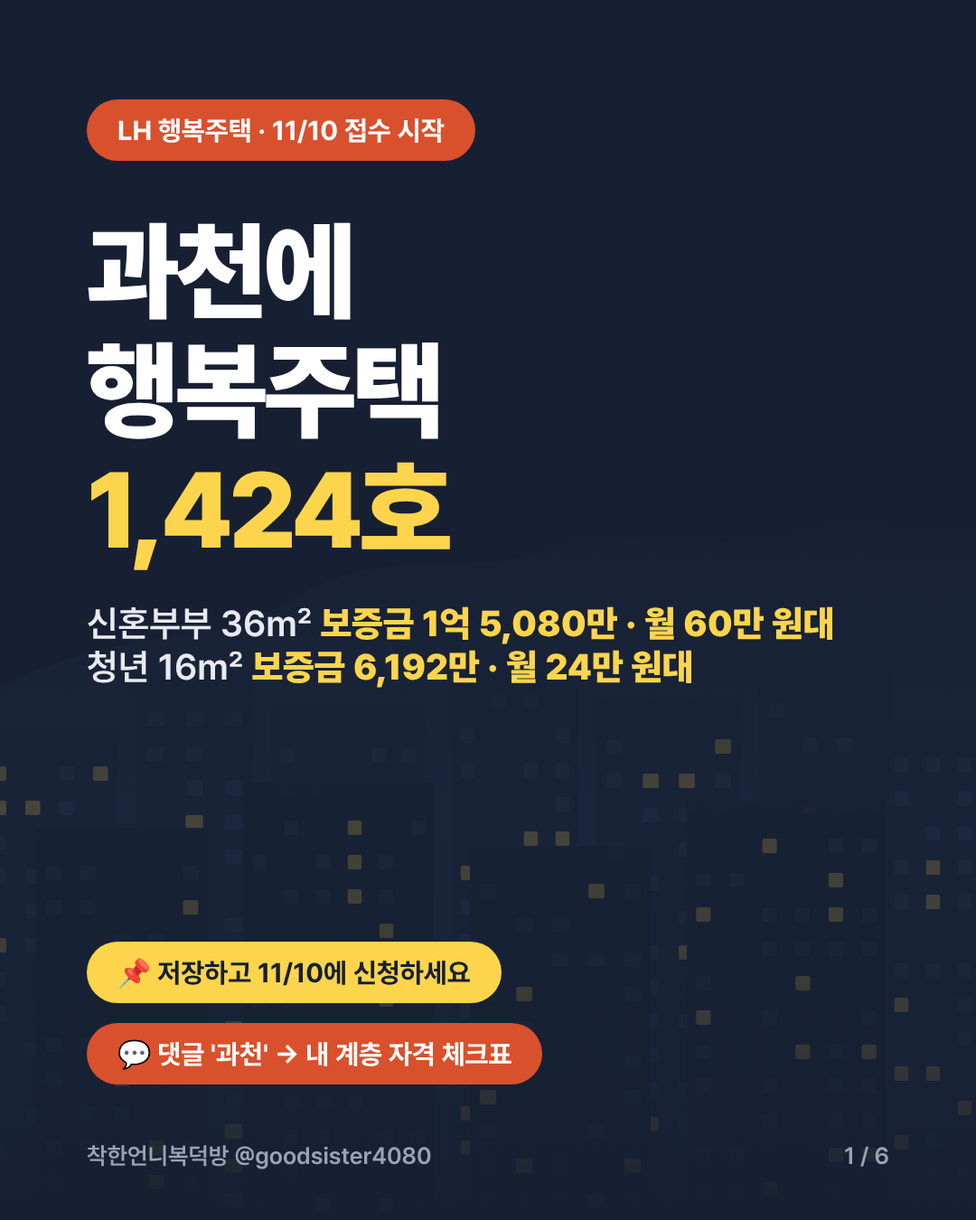
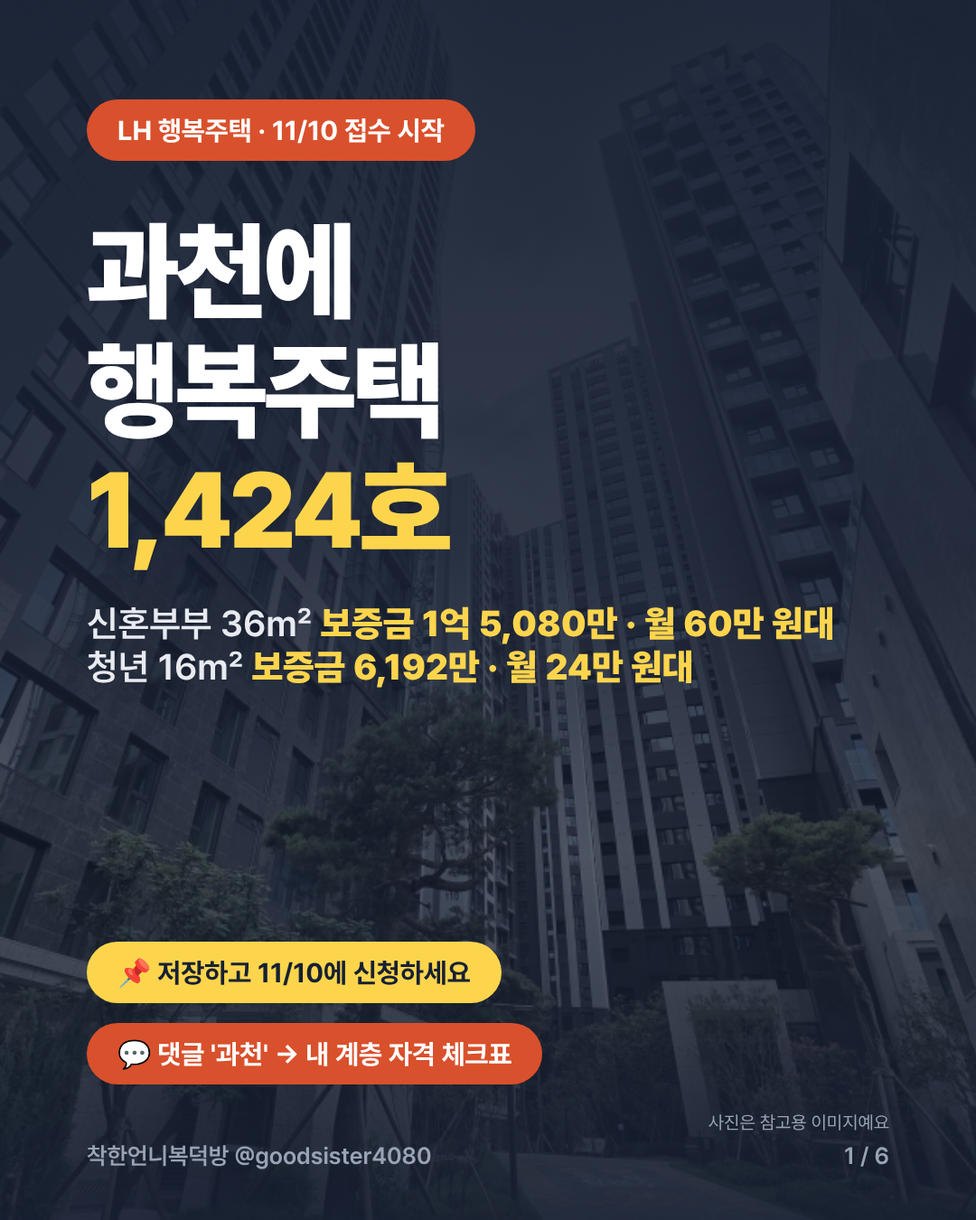
과천 카드 표지 배경을 대표님 현장 사진으로 교체
Claude-Session: https://claude.ai/code/session_01TVq9Lz26QJWFKfuMp4TYmW

diff --git a/instagram/cards/2026-11-gwacheon/cards.html b/instagram/cards/2026-11-gwacheon/cards.html
@@ -46,10 +46,10 @@ tr.hl td{background:#172033;color:#fff}tr.hl td small{color:#AEB6C8}tr.hl td .r{
 .ck i{font-style:normal;width:56px;height:56px;border-radius:50%;background:#D9502C;color:#fff;font-weight:800;font-size:30px;display:flex;align-items:center;justify-content:center}
 .ck b{font-size:34px;font-weight:800;display:block}
 .ck span{font-size:27px;color:#5D5040;line-height:1.45;display:block;margin-top:6px}
-.bgsk{position:absolute;inset:0;z-index:0}.c.dark>.pill,.c.dark>.big,.c.dark>.sub,.c.dark>.ey,.c.dark>h1,.c.dark>.tl{position:relative;z-index:1}.c.dark>.ctas,.c.dark>.foot{z-index:1}.bgsk{opacity:.55}.fade{position:absolute;inset:0;z-index:0;background:linear-gradient(180deg,#172033 0%,#172033 40%,rgba(23,32,51,.35) 66%,rgba(23,32,51,.55) 85%,#172033 100%)}</style></head><body>
+.bgsk{position:absolute;inset:0;z-index:0}.c.dark>.pill,.c.dark>.big,.c.dark>.sub,.c.dark>.ey,.c.dark>h1,.c.dark>.tl{position:relative;z-index:1}.c.dark>.ctas,.c.dark>.foot{z-index:1}.bgsk{opacity:.55}.fade{position:absolute;inset:0;z-index:0;background:linear-gradient(180deg,#172033 0%,#172033 40%,rgba(23,32,51,.35) 66%,rgba(23,32,51,.55) 85%,#172033 100%)}.photo{position:absolute;inset:0;z-index:0;background:url(bg.jpg) 62% center/cover;filter:saturate(.6) brightness(.85)}#c1 .fade{background:linear-gradient(180deg,rgba(23,32,51,.94) 0%,rgba(23,32,51,.86) 45%,rgba(23,32,51,.62) 70%,rgba(23,32,51,.9) 100%)}.ref{position:absolute;right:96px;bottom:96px;z-index:1;font-size:20px;color:#9AA3B5}</style></head><body>
 
 <!-- 1 표지 -->
-<section class="c dark" id="c1"><svg class="bgsk" viewBox="0 0 1080 1350" width="1080" height="1350" xmlns="http://www.w3.org/2000/svg" aria-hidden="true"><path d="M0 760 C140 690 230 720 330 660 C430 600 520 640 600 610 C700 570 790 620 880 590 C960 565 1030 600 1080 585 L1080 1350 L0 1350 Z" fill="#22304A"/><rect x="-20" y="820" width="150" height="530" fill="#1E2A42"/><rect x="-20" y="806" width="150" height="14" fill="#1E2A42" opacity=".9"/><rect x="-9.5" y="848" width="16.5" height="16" rx="2" fill="#FDD54D" opacity="0.55"/><rect x="65.5" y="848" width="16.5" height="16" rx="2" fill="#34435F" opacity="0.5"/><rect x="103.0" y="848" width="16.5" height="16" rx="2" fill="#FDD54D" opacity="0.55"/><rect x="-9.5" y="886" width="16.5" height="16" rx="2" fill="#FDD54D" opacity="0.55"/><rect x="28.0" y="886" width="16.5" height="16" rx="2" fill="#FDD54D" opacity="0.55"/><rect x="65.5" y="886" width="16.5" height="16" rx="2" fill="#34435F" opacity="0.5"/><rect x="-9.5" y="924" width="16.5" height="16" rx="2" fill="#34435F" opacity="0.5"/><rect x="-9.5" y="962" width="16.5" height="16" rx="2" fill="#34435F" opacity="0.5"/><rect x="28.0" y="962" width="16.5" height="16" rx="2" fill="#34435F" opacity="0.5"/><rect x="65.5" y="962" width="16.5" height="16" rx="2" fill="#FDD54D" opacity="0.55"/><rect x="103.0" y="962" width="16.5" height="16" rx="2" fill="#34435F" opacity="0.5"/><rect x="28.0" y="1000" width="16.5" height="16" rx="2" fill="#34435F" opacity="0.5"/><rect x="103.0" y="1000" width="16.5" height="16" rx="2" fill="#34435F" opacity="0.5"/><rect x="-9.5" y="1038" width="16.5" height="16" rx="2" fill="#FDD54D" opacity="0.55"/><rect x="28.0" y="1038" width="16.5" height="16" rx="2" fill="#34435F" opacity="0.5"/><rect x="65.5" y="1038" width="16.5" height="16" rx="2" fill="#34435F" opacity="0.5"/><rect x="-9.5" y="1076" width="16.5" height="16" rx="2" fill="#34435F" opacity="0.5"/><rect x="103.0" y="1076" width="16.5" height="16" rx="2" fill="#34435F" opacity="0.5"/><rect x="-9.5" y="1114" width="16.5" height="16" rx="2" fill="#34435F" opacity="0.5"/><rect x="65.5" y="1114" width="16.5" height="16" rx="2" fill="#34435F" opacity="0.5"/><rect x="103.0" y="1114" width="16.5" height="16" rx="2" fill="#34435F" opacity="0.5"/><rect x="28.0" y="1152" width="16.5" height="16" rx="2" fill="#34435F" opacity="0.5"/><rect x="65.5" y="1152" width="16.5" height="16" rx="2" fill="#34435F" opacity="0.5"/><rect x="65.5" y="1190" width="16.5" height="16" rx="2" fill="#34435F" opacity="0.5"/><rect x="28.0" y="1228" width="16.5" height="16" rx="2" fill="#34435F" opacity="0.5"/><rect x="103.0" y="1228" width="16.5" height="16" rx="2" fill="#34435F" opacity="0.5"/><rect x="-9.5" y="1266" width="16.5" height="16" rx="2" fill="#34435F" opacity="0.5"/><rect x="-9.5" y="1304" width="16.5" height="16" rx="2" fill="#34435F" opacity="0.5"/><rect x="65.5" y="1304" width="16.5" height="16" rx="2" fill="#34435F" opacity="0.5"/><rect x="103.0" y="1304" width="16.5" height="16" rx="2" fill="#FDD54D" opacity="0.55"/><rect x="150" y="760" width="130" height="590" fill="#1E2A42"/><rect x="150" y="746" width="130" height="14" fill="#1E2A42" opacity=".9"/><rect x="162.1" y="788" width="19.1" height="16" rx="2" fill="#34435F" opacity="0.5"/><rect x="205.5" y="788" width="19.1" height="16" rx="2" fill="#34435F" opacity="0.5"/><rect x="248.8" y="788" width="19.1" height="16" rx="2" fill="#34435F" opacity="0.5"/><rect x="162.1" y="826" width="19.1" height="16" rx="2" fill="#34435F" opacity="0.5"/><rect x="205.5" y="826" width="19.1" height="16" rx="2" fill="#34435F" opacity="0.5"/><rect x="205.5" y="864" width="19.1" height="16" rx="2" fill="#34435F" opacity="0.5"/><rect x="248.8" y="864" width="19.1" height="16" rx="2" fill="#34435F" opacity="0.5"/><rect x="205.5" y="902" width="19.1" height="16" rx="2" fill="#FDD54D" opacity="0.55"/><rect x="248.8" y="902" width="19.1" height="16" rx="2" fill="#34435F" opacity="0.5"/><rect x="162.1" y="940" width="19.1" height="16" rx="2" fill="#34435F" opacity="0.5"/><rect x="205.5" y="940" width="19.1" height="16" rx="2" fill="#FDD54D" opacity="0.55"/><rect x="248.8" y="940" width="19.1" height="16" rx="2" fill="#34435F" opacity="0.5"/><rect x="162.1" y="1016" width="19.1" height="16" rx="2" fill="#34435F" opacity="0.5"/><rect x="248.8" y="1016" width="19.1" height="16" rx="2" fill="#34435F" opacity="0.5"/><rect x="162.1" y="1092" width="19.1" height="16" rx="2" fill="#34435F" opacity="0.5"/><rect x="205.5" y="1092" width="19.1" height="16" rx="2" fill="#34435F" opacity="0.5"/><rect x="248.8" y="1092" width="19.1" height="16" rx="2" fill="#FDD54D" opacity="0.55"/><rect x="162.1" y="1130" width="19.1" height="16" rx="2" fill="#FDD54D" opacity="0.55"/><rect x="205.5" y="1130" width="19.1" height="16" rx="2" fill="#FDD54D" opacity="0.55"/><rect x="248.8" y="1130" width="19.1" height="16" rx="2" fill="#FDD54D" opacity="0.55"/><rect x="162.1" y="1168" width="19.1" height="16" rx="2" fill="#34435F" opacity="0.5"/><rect x="205.5" y="1168" width="19.1" height="16" rx="2" fill="#34435F" opacity="0.5"/><rect x="162.1" y="1206" width="19.1" height="16" rx="2" fill="#34435F" opacity="0.5"/><rect x="205.5" y="1206" width="19.1" height="16" rx="2" fill="#34435F" opacity="0.5"/><rect x="248.8" y="1206" width="19.1" height="16" rx="2" fill="#34435F" opacity="0.5"/><rect x="205.5" y="1244" width="19.1" height="16" rx="2" fill="#34435F" opacity="0.5"/><rect x="248.8" y="1244" width="19.1" height="16" rx="2" fill="#FDD54D" opacity="0.55"/><rect x="162.1" y="1282" width="19.1" height="16" rx="2" fill="#34435F" opacity="0.5"/><rect x="248.8" y="1282" width="19.1" height="16" rx="2" fill="#FDD54D" opacity="0.55"/><rect x="205.5" y="1320" width="19.1" height="16" rx="2" fill="#FDD54D" opacity="0.55"/><rect x="248.8" y="1320" width="19.1" height="16" rx="2" fill="#FDD54D" opacity="0.55"/><rect x="300" y="800" width="170" height="550" fill="#1E2A42"/><rect x="300" y="786" width="170" height="14" fill="#1E2A42" opacity=".9"/><rect x="309.5" y="828" width="15.0" height="16" rx="2" fill="#34435F" opacity="0.5"/><rect x="411.5" y="828" width="15.0" height="16" rx="2" fill="#34435F" opacity="0.5"/><rect x="445.5" y="828" width="15.0" height="16" rx="2" fill="#34435F" opacity="0.5"/><rect x="309.5" y="866" width="15.0" height="16" rx="2" fill="#34435F" opacity="0.5"/><rect x="343.5" y="866" width="15.0" height="16" rx="2" fill="#34435F" opacity="0.5"/><rect x="411.5" y="904" width="15.0" height="16" rx="2" fill="#34435F" opacity="0.5"/><rect x="445.5" y="904" width="15.0" height="16" rx="2" fill="#FDD54D" opacity="0.55"/><rect x="309.5" y="942" width="15.0" height="16" rx="2" fill="#34435F" opacity="0.5"/><rect x="343.5" y="942" width="15.0" height="16" rx="2" fill="#34435F" opacity="0.5"/><rect x="411.5" y="942" width="15.0" height="16" rx="2" fill="#34435F" opacity="0.5"/><rect x="343.5" y="980" width="15.0" height="16" rx="2" fill="#34435F" opacity="0.5"/><rect x="377.5" y="980" width="15.0" height="16" rx="2" fill="#FDD54D" opacity="0.55"/><rect x="411.5" y="980" width="15.0" height="16" rx="2" fill="#34435F" opacity="0.5"/><rect x="343.5" y="1018" width="15.0" height="16" rx="2" fill="#34435F" opacity="0.5"/><rect x="411.5" y="1018" width="15.0" height="16" rx="2" fill="#34435F" opacity="0.5"/><rect x="377.5" y="1056" width="15.0" height="16" rx="2" fill="#FDD54D" opacity="0.55"/><rect x="445.5" y="1056" width="15.0" height="16" rx="2" fill="#34435F" opacity="0.5"/><rect x="343.5" y="1094" width="15.0" height="16" rx="2" fill="#34435F" opacity="0.5"/><rect x="445.5" y="1094" width="15.0" height="16" rx="2" fill="#FDD54D" opacity="0.55"/><rect x="309.5" y="1132" width="15.0" height="16" rx="2" fill="#34435F" opacity="0.5"/><rect x="377.5" y="1132" width="15.0" height="16" rx="2" fill="#34435F" opacity="0.5"/><rect x="309.5" y="1170" width="15.0" height="16" rx="2" fill="#34435F" opacity="0.5"/><rect x="343.5" y="1170" width="15.0" height="16" rx="2" fill="#FDD54D" opacity="0.55"/><rect x="445.5" y="1170" width="15.0" height="16" rx="2" fill="#34435F" opacity="0.5"/><rect x="309.5" y="1208" width="15.0" height="16" rx="2" fill="#34435F" opacity="0.5"/><rect x="377.5" y="1208" width="15.0" height="16" rx="2" fill="#34435F" opacity="0.5"/><rect x="411.5" y="1208" width="15.0" height="16" rx="2" fill="#34435F" opacity="0.5"/><rect x="309.5" y="1246" width="15.0" height="16" rx="2" fill="#34435F" opacity="0.5"/><rect x="343.5" y="1246" width="15.0" height="16" rx="2" fill="#34435F" opacity="0.5"/><rect x="377.5" y="1246" width="15.0" height="16" rx="2" fill="#34435F" opacity="0.5"/><rect x="309.5" y="1284" width="15.0" height="16" rx="2" fill="#34435F" opacity="0.5"/><rect x="343.5" y="1284" width="15.0" height="16" rx="2" fill="#34435F" opacity="0.5"/><rect x="377.5" y="1284" width="15.0" height="16" rx="2" fill="#FDD54D" opacity="0.55"/><rect x="411.5" y="1284" width="15.0" height="16" rx="2" fill="#FDD54D" opacity="0.55"/><rect x="445.5" y="1284" width="15.0" height="16" rx="2" fill="#34435F" opacity="0.5"/><rect x="309.5" y="1322" width="15.0" height="16" rx="2" fill="#34435F" opacity="0.5"/><rect x="411.5" y="1322" width="15.0" height="16" rx="2" fill="#34435F" opacity="0.5"/><rect x="500" y="740" width="140" height="610" fill="#1E2A42"/><rect x="500" y="726" width="140" height="14" fill="#1E2A42" opacity=".9"/><rect x="544.8" y="768" width="15.4" height="16" rx="2" fill="#34435F" opacity="0.5"/><rect x="579.8" y="768" width="15.4" height="16" rx="2" fill="#34435F" opacity="0.5"/><rect x="509.8" y="806" width="15.4" height="16" rx="2" fill="#34435F" opacity="0.5"/><rect x="614.8" y="806" width="15.4" height="16" rx="2" fill="#34435F" opacity="0.5"/><rect x="509.8" y="844" width="15.4" height="16" rx="2" fill="#34435F" opacity="0.5"/><rect x="579.8" y="844" width="15.4" height="16" rx="2" fill="#34435F" opacity="0.5"/><rect x="614.8" y="844" width="15.4" height="16" rx="2" fill="#34435F" opacity="0.5"/><rect x="614.8" y="882" width="15.4" height="16" rx="2" fill="#34435F" opacity="0.5"/><rect x="579.8" y="920" width="15.4" height="16" rx="2" fill="#FDD54D" opacity="0.55"/><rect x="614.8" y="920" width="15.4" height="16" rx="2" fill="#FDD54D" opacity="0.55"/><rect x="509.8" y="958" width="15.4" height="16" rx="2" fill="#FDD54D" opacity="0.55"/><rect x="509.8" y="996" width="15.4" height="16" rx="2" fill="#34435F" opacity="0.5"/><rect x="579.8" y="996" width="15.4" height="16" rx="2" fill="#34435F" opacity="0.5"/><rect x="509.8" y="1034" width="15.4" height="16" rx="2" fill="#34435F" opacity="0.5"/><rect x="544.8" y="1034" width="15.4" height="16" rx="2" fill="#34435F" opacity="0.5"/><rect x="509.8" y="1072" width="15.4" height="16" rx="2" fill="#34435F" opacity="0.5"/><rect x="544.8" y="1072" width="15.4" height="16" rx="2" fill="#34435F" opacity="0.5"/><rect x="579.8" y="1072" width="15.4" height="16" rx="2" fill="#34435F" opacity="0.5"/><rect x="509.8" y="1110" width="15.4" height="16" rx="2" fill="#34435F" opacity="0.5"/><rect x="544.8" y="1110" width="15.4" height="16" rx="2" fill="#FDD54D" opacity="0.55"/><rect x="579.8" y="1110" width="15.4" height="16" rx="2" fill="#34435F" opacity="0.5"/><rect x="614.8" y="1110" width="15.4" height="16" rx="2" fill="#FDD54D" opacity="0.55"/><rect x="614.8" y="1148" width="15.4" height="16" rx="2" fill="#34435F" opacity="0.5"/><rect x="509.8" y="1186" width="15.4" height="16" rx="2" fill="#34435F" opacity="0.5"/><rect x="544.8" y="1186" width="15.4" height="16" rx="2" fill="#FDD54D" opacity="0.55"/><rect x="579.8" y="1186" width="15.4" height="16" rx="2" fill="#34435F" opacity="0.5"/><rect x="509.8" y="1224" width="15.4" height="16" rx="2" fill="#FDD54D" opacity="0.55"/><rect x="509.8" y="1262" width="15.4" height="16" rx="2" fill="#FDD54D" opacity="0.55"/><rect x="579.8" y="1262" width="15.4" height="16" rx="2" fill="#FDD54D" opacity="0.55"/><rect x="579.8" y="1300" width="15.4" height="16" rx="2" fill="#34435F" opacity="0.5"/><rect x="614.8" y="1300" width="15.4" height="16" rx="2" fill="#34435F" opacity="0.5"/><rect x="660" y="790" width="160" height="560" fill="#1E2A42"/><rect x="660" y="776" width="160" height="14" fill="#1E2A42" opacity=".9"/><rect x="671.2" y="818" width="17.6" height="16" rx="2" fill="#34435F" opacity="0.5"/><rect x="791.2" y="818" width="17.6" height="16" rx="2" fill="#FDD54D" opacity="0.55"/><rect x="671.2" y="856" width="17.6" height="16" rx="2" fill="#34435F" opacity="0.5"/><rect x="711.2" y="856" width="17.6" height="16" rx="2" fill="#FDD54D" opacity="0.55"/><rect x="751.2" y="856" width="17.6" height="16" rx="2" fill="#FDD54D" opacity="0.55"/><rect x="791.2" y="856" width="17.6" height="16" rx="2" fill="#34435F" opacity="0.5"/><rect x="711.2" y="894" width="17.6" height="16" rx="2" fill="#34435F" opacity="0.5"/><rect x="751.2" y="894" width="17.6" height="16" rx="2" fill="#34435F" opacity="0.5"/><rect x="791.2" y="894" width="17.6" height="16" rx="2" fill="#34435F" opacity="0.5"/><rect x="671.2" y="932" width="17.6" height="16" rx="2" fill="#34435F" opacity="0.5"/><rect x="751.2" y="932" width="17.6" height="16" rx="2" fill="#34435F" opacity="0.5"/><rect x="671.2" y="970" width="17.6" height="16" rx="2" fill="#34435F" opacity="0.5"/><rect x="711.2" y="970" width="17.6" height="16" rx="2" fill="#34435F" opacity="0.5"/><rect x="791.2" y="970" width="17.6" height="16" rx="2" fill="#34435F" opacity="0.5"/><rect x="751.2" y="1008" width="17.6" height="16" rx="2" fill="#34435F" opacity="0.5"/><rect x="711.2" y="1046" width="17.6" height="16" rx="2" fill="#34435F" opacity="0.5"/><rect x="751.2" y="1046" width="17.6" height="16" rx="2" fill="#FDD54D" opacity="0.55"/><rect x="791.2" y="1046" width="17.6" height="16" rx="2" fill="#34435F" opacity="0.5"/><rect x="671.2" y="1084" width="17.6" height="16" rx="2" fill="#FDD54D" opacity="0.55"/><rect x="711.2" y="1084" width="17.6" height="16" rx="2" fill="#34435F" opacity="0.5"/><rect x="671.2" y="1122" width="17.6" height="16" rx="2" fill="#34435F" opacity="0.5"/><rect x="711.2" y="1122" width="17.6" height="16" rx="2" fill="#34435F" opacity="0.5"/><rect x="751.2" y="1122" width="17.6" height="16" rx="2" fill="#34435F" opacity="0.5"/><rect x="791.2" y="1122" width="17.6" height="16" rx="2" fill="#34435F" opacity="0.5"/><rect x="711.2" y="1160" width="17.6" height="16" rx="2" fill="#34435F" opacity="0.5"/><rect x="791.2" y="1160" width="17.6" height="16" rx="2" fill="#34435F" opacity="0.5"/><rect x="671.2" y="1198" width="17.6" height="16" rx="2" fill="#34435F" opacity="0.5"/><rect x="711.2" y="1198" width="17.6" height="16" rx="2" fill="#34435F" opacity="0.5"/><rect x="751.2" y="1198" width="17.6" height="16" rx="2" fill="#34435F" opacity="0.5"/><rect x="791.2" y="1198" width="17.6" height="16" rx="2" fill="#34435F" opacity="0.5"/><rect x="671.2" y="1236" width="17.6" height="16" rx="2" fill="#34435F" opacity="0.5"/><rect x="711.2" y="1236" width="17.6" height="16" rx="2" fill="#FDD54D" opacity="0.55"/><rect x="751.2" y="1236" width="17.6" height="16" rx="2" fill="#34435F" opacity="0.5"/><rect x="671.2" y="1274" width="17.6" height="16" rx="2" fill="#34435F" opacity="0.5"/><rect x="671.2" y="1312" width="17.6" height="16" rx="2" fill="#34435F" opacity="0.5"/><rect x="751.2" y="1312" width="17.6" height="16" rx="2" fill="#34435F" opacity="0.5"/><rect x="840" y="750" width="150" height="600" fill="#1E2A42"/><rect x="840" y="736" width="150" height="14" fill="#1E2A42" opacity=".9"/><rect x="850.5" y="778" width="16.5" height="16" rx="2" fill="#34435F" opacity="0.5"/><rect x="888.0" y="816" width="16.5" height="16" rx="2" fill="#34435F" opacity="0.5"/><rect x="925.5" y="816" width="16.5" height="16" rx="2" fill="#34435F" opacity="0.5"/><rect x="888.0" y="892" width="16.5" height="16" rx="2" fill="#FDD54D" opacity="0.55"/><rect x="925.5" y="892" width="16.5" height="16" rx="2" fill="#34435F" opacity="0.5"/><rect x="963.0" y="892" width="16.5" height="16" rx="2" fill="#34435F" opacity="0.5"/><rect x="850.5" y="968" width="16.5" height="16" rx="2" fill="#FDD54D" opacity="0.55"/><rect x="963.0" y="968" width="16.5" height="16" rx="2" fill="#34435F" opacity="0.5"/><rect x="888.0" y="1006" width="16.5" height="16" rx="2" fill="#34435F" opacity="0.5"/><rect x="925.5" y="1006" width="16.5" height="16" rx="2" fill="#FDD54D" opacity="0.55"/><rect x="963.0" y="1006" width="16.5" height="16" rx="2" fill="#34435F" opacity="0.5"/><rect x="850.5" y="1044" width="16.5" height="16" rx="2" fill="#34435F" opacity="0.5"/><rect x="925.5" y="1044" width="16.5" height="16" rx="2" fill="#34435F" opacity="0.5"/><rect x="963.0" y="1044" width="16.5" height="16" rx="2" fill="#34435F" opacity="0.5"/><rect x="963.0" y="1082" width="16.5" height="16" rx="2" fill="#FDD54D" opacity="0.55"/><rect x="850.5" y="1120" width="16.5" height="16" rx="2" fill="#34435F" opacity="0.5"/><rect x="888.0" y="1120" width="16.5" height="16" rx="2" fill="#34435F" opacity="0.5"/><rect x="925.5" y="1120" width="16.5" height="16" rx="2" fill="#FDD54D" opacity="0.55"/><rect x="963.0" y="1120" width="16.5" height="16" rx="2" fill="#34435F" opacity="0.5"/><rect x="925.5" y="1158" width="16.5" height="16" rx="2" fill="#34435F" opacity="0.5"/><rect x="963.0" y="1158" width="16.5" height="16" rx="2" fill="#34435F" opacity="0.5"/><rect x="850.5" y="1196" width="16.5" height="16" rx="2" fill="#34435F" opacity="0.5"/><rect x="888.0" y="1196" width="16.5" height="16" rx="2" fill="#34435F" opacity="0.5"/><rect x="963.0" y="1196" width="16.5" height="16" rx="2" fill="#34435F" opacity="0.5"/><rect x="925.5" y="1234" width="16.5" height="16" rx="2" fill="#34435F" opacity="0.5"/><rect x="963.0" y="1234" width="16.5" height="16" rx="2" fill="#34435F" opacity="0.5"/><rect x="850.5" y="1272" width="16.5" height="16" rx="2" fill="#34435F" opacity="0.5"/><rect x="888.0" y="1272" width="16.5" height="16" rx="2" fill="#34435F" opacity="0.5"/><rect x="963.0" y="1272" width="16.5" height="16" rx="2" fill="#34435F" opacity="0.5"/><rect x="850.5" y="1310" width="16.5" height="16" rx="2" fill="#34435F" opacity="0.5"/><rect x="925.5" y="1310" width="16.5" height="16" rx="2" fill="#34435F" opacity="0.5"/><rect x="963.0" y="1310" width="16.5" height="16" rx="2" fill="#FDD54D" opacity="0.55"/><rect x="980" y="810" width="140" height="540" fill="#1E2A42"/><rect x="980" y="796" width="140" height="14" fill="#1E2A42" opacity=".9"/><rect x="989.8" y="838" width="15.4" height="16" rx="2" fill="#34435F" opacity="0.5"/><rect x="1024.8" y="838" width="15.4" height="16" rx="2" fill="#34435F" opacity="0.5"/><rect x="1059.8" y="838" width="15.4" height="16" rx="2" fill="#34435F" opacity="0.5"/><rect x="1094.8" y="838" width="15.4" height="16" rx="2" fill="#34435F" opacity="0.5"/><rect x="989.8" y="876" width="15.4" height="16" rx="2" fill="#34435F" opacity="0.5"/><rect x="1059.8" y="876" width="15.4" height="16" rx="2" fill="#34435F" opacity="0.5"/><rect x="1024.8" y="914" width="15.4" height="16" rx="2" fill="#34435F" opacity="0.5"/><rect x="1059.8" y="914" width="15.4" height="16" rx="2" fill="#34435F" opacity="0.5"/><rect x="989.8" y="952" width="15.4" height="16" rx="2" fill="#34435F" opacity="0.5"/><rect x="1024.8" y="952" width="15.4" height="16" rx="2" fill="#FDD54D" opacity="0.55"/><rect x="1059.8" y="952" width="15.4" height="16" rx="2" fill="#34435F" opacity="0.5"/><rect x="1094.8" y="952" width="15.4" height="16" rx="2" fill="#34435F" opacity="0.5"/><rect x="989.8" y="990" width="15.4" height="16" rx="2" fill="#34435F" opacity="0.5"/><rect x="1024.8" y="990" width="15.4" height="16" rx="2" fill="#FDD54D" opacity="0.55"/><rect x="1059.8" y="990" width="15.4" height="16" rx="2" fill="#34435F" opacity="0.5"/><rect x="989.8" y="1066" width="15.4" height="16" rx="2" fill="#34435F" opacity="0.5"/><rect x="1024.8" y="1066" width="15.4" height="16" rx="2" fill="#34435F" opacity="0.5"/><rect x="1059.8" y="1066" width="15.4" height="16" rx="2" fill="#34435F" opacity="0.5"/><rect x="989.8" y="1104" width="15.4" height="16" rx="2" fill="#FDD54D" opacity="0.55"/><rect x="1059.8" y="1104" width="15.4" height="16" rx="2" fill="#34435F" opacity="0.5"/><rect x="1094.8" y="1104" width="15.4" height="16" rx="2" fill="#34435F" opacity="0.5"/><rect x="1059.8" y="1142" width="15.4" height="16" rx="2" fill="#34435F" opacity="0.5"/><rect x="1094.8" y="1142" width="15.4" height="16" rx="2" fill="#34435F" opacity="0.5"/><rect x="989.8" y="1180" width="15.4" height="16" rx="2" fill="#FDD54D" opacity="0.55"/><rect x="1024.8" y="1180" width="15.4" height="16" rx="2" fill="#FDD54D" opacity="0.55"/><rect x="1094.8" y="1180" width="15.4" height="16" rx="2" fill="#34435F" opacity="0.5"/><rect x="1059.8" y="1218" width="15.4" height="16" rx="2" fill="#FDD54D" opacity="0.55"/><rect x="1094.8" y="1218" width="15.4" height="16" rx="2" fill="#FDD54D" opacity="0.55"/><rect x="989.8" y="1256" width="15.4" height="16" rx="2" fill="#FDD54D" opacity="0.55"/><rect x="1024.8" y="1256" width="15.4" height="16" rx="2" fill="#34435F" opacity="0.5"/><rect x="1024.8" y="1294" width="15.4" height="16" rx="2" fill="#34435F" opacity="0.5"/><rect x="1059.8" y="1294" width="15.4" height="16" rx="2" fill="#34435F" opacity="0.5"/><rect x="1094.8" y="1294" width="15.4" height="16" rx="2" fill="#FDD54D" opacity="0.55"/><rect x="40" y="930" width="190" height="420" fill="#1A2538"/><rect x="40" y="916" width="190" height="14" fill="#1A2538" opacity=".9"/><rect x="50.6" y="958" width="16.7" height="16" rx="2" fill="#2F3D58" opacity="0.5"/><rect x="88.6" y="958" width="16.7" height="16" rx="2" fill="#2F3D58" opacity="0.5"/><rect x="202.6" y="958" width="16.7" height="16" rx="2" fill="#2F3D58" opacity="0.5"/><rect x="50.6" y="996" width="16.7" height="16" rx="2" fill="#2F3D58" opacity="0.5"/><rect x="88.6" y="996" width="16.7" height="16" rx="2" fill="#2F3D58" opacity="0.5"/><rect x="202.6" y="996" width="16.7" height="16" rx="2" fill="#FDD54D" opacity="0.55"/><rect x="126.6" y="1034" width="16.7" height="16" rx="2" fill="#2F3D58" opacity="0.5"/><rect x="164.6" y="1034" width="16.7" height="16" rx="2" fill="#2F3D58" opacity="0.5"/><rect x="164.6" y="1072" width="16.7" height="16" rx="2" fill="#FDD54D" opacity="0.55"/><rect x="202.6" y="1072" width="16.7" height="16" rx="2" fill="#2F3D58" opacity="0.5"/><rect x="50.6" y="1148" width="16.7" height="16" rx="2" fill="#2F3D58" opacity="0.5"/><rect x="88.6" y="1148" width="16.7" height="16" rx="2" fill="#2F3D58" opacity="0.5"/><rect x="126.6" y="1148" width="16.7" height="16" rx="2" fill="#2F3D58" opacity="0.5"/><rect x="202.6" y="1148" width="16.7" height="16" rx="2" fill="#FDD54D" opacity="0.55"/><rect x="50.6" y="1186" width="16.7" height="16" rx="2" fill="#2F3D58" opacity="0.5"/><rect x="126.6" y="1186" width="16.7" height="16" rx="2" fill="#FDD54D" opacity="0.55"/><rect x="164.6" y="1186" width="16.7" height="16" rx="2" fill="#2F3D58" opacity="0.5"/><rect x="202.6" y="1186" width="16.7" height="16" rx="2" fill="#2F3D58" opacity="0.5"/><rect x="88.6" y="1224" width="16.7" height="16" rx="2" fill="#2F3D58" opacity="0.5"/><rect x="126.6" y="1224" width="16.7" height="16" rx="2" fill="#2F3D58" opacity="0.5"/><rect x="50.6" y="1262" width="16.7" height="16" rx="2" fill="#2F3D58" opacity="0.5"/><rect x="88.6" y="1262" width="16.7" height="16" rx="2" fill="#2F3D58" opacity="0.5"/><rect x="164.6" y="1262" width="16.7" height="16" rx="2" fill="#FDD54D" opacity="0.55"/><rect x="202.6" y="1262" width="16.7" height="16" rx="2" fill="#2F3D58" opacity="0.5"/><rect x="50.6" y="1300" width="16.7" height="16" rx="2" fill="#2F3D58" opacity="0.5"/><rect x="164.6" y="1300" width="16.7" height="16" rx="2" fill="#FDD54D" opacity="0.55"/><rect x="202.6" y="1300" width="16.7" height="16" rx="2" fill="#2F3D58" opacity="0.5"/><rect x="270" y="880" width="210" height="470" fill="#1A2538"/><rect x="270" y="866" width="210" height="14" fill="#1A2538" opacity=".9"/><rect x="314.8" y="908" width="15.4" height="16" rx="2" fill="#2F3D58" opacity="0.5"/><rect x="384.8" y="908" width="15.4" height="16" rx="2" fill="#FDD54D" opacity="0.55"/><rect x="454.8" y="908" width="15.4" height="16" rx="2" fill="#2F3D58" opacity="0.5"/><rect x="279.8" y="946" width="15.4" height="16" rx="2" fill="#2F3D58" opacity="0.5"/><rect x="349.8" y="946" width="15.4" height="16" rx="2" fill="#2F3D58" opacity="0.5"/><rect x="384.8" y="946" width="15.4" height="16" rx="2" fill="#FDD54D" opacity="0.55"/><rect x="419.8" y="946" width="15.4" height="16" rx="2" fill="#2F3D58" opacity="0.5"/><rect x="314.8" y="984" width="15.4" height="16" rx="2" fill="#2F3D58" opacity="0.5"/><rect x="349.8" y="984" width="15.4" height="16" rx="2" fill="#2F3D58" opacity="0.5"/><rect x="384.8" y="984" width="15.4" height="16" rx="2" fill="#FDD54D" opacity="0.55"/><rect x="419.8" y="984" width="15.4" height="16" rx="2" fill="#2F3D58" opacity="0.5"/><rect x="419.8" y="1022" width="15.4" height="16" rx="2" fill="#FDD54D" opacity="0.55"/><rect x="314.8" y="1060" width="15.4" height="16" rx="2" fill="#2F3D58" opacity="0.5"/><rect x="349.8" y="1060" width="15.4" height="16" rx="2" fill="#2F3D58" opacity="0.5"/><rect x="384.8" y="1060" width="15.4" height="16" rx="2" fill="#FDD54D" opacity="0.55"/><rect x="419.8" y="1060" width="15.4" height="16" rx="2" fill="#2F3D58" opacity="0.5"/><rect x="454.8" y="1060" width="15.4" height="16" rx="2" fill="#2F3D58" opacity="0.5"/><rect x="279.8" y="1098" width="15.4" height="16" rx="2" fill="#2F3D58" opacity="0.5"/><rect x="314.8" y="1098" width="15.4" height="16" rx="2" fill="#2F3D58" opacity="0.5"/><rect x="419.8" y="1098" width="15.4" height="16" rx="2" fill="#FDD54D" opacity="0.55"/><rect x="454.8" y="1098" width="15.4" height="16" rx="2" fill="#2F3D58" opacity="0.5"/><rect x="314.8" y="1136" width="15.4" height="16" rx="2" fill="#2F3D58" opacity="0.5"/><rect x="384.8" y="1136" width="15.4" height="16" rx="2" fill="#2F3D58" opacity="0.5"/><rect x="279.8" y="1174" width="15.4" height="16" rx="2" fill="#FDD54D" opacity="0.55"/><rect x="314.8" y="1174" width="15.4" height="16" rx="2" fill="#2F3D58" opacity="0.5"/><rect x="349.8" y="1174" width="15.4" height="16" rx="2" fill="#2F3D58" opacity="0.5"/><rect x="419.8" y="1174" width="15.4" height="16" rx="2" fill="#2F3D58" opacity="0.5"/><rect x="314.8" y="1212" width="15.4" height="16" rx="2" fill="#2F3D58" opacity="0.5"/><rect x="349.8" y="1212" width="15.4" height="16" rx="2" fill="#2F3D58" opacity="0.5"/><rect x="384.8" y="1212" width="15.4" height="16" rx="2" fill="#2F3D58" opacity="0.5"/><rect x="314.8" y="1250" width="15.4" height="16" rx="2" fill="#2F3D58" opacity="0.5"/><rect x="349.8" y="1250" width="15.4" height="16" rx="2" fill="#2F3D58" opacity="0.5"/><rect x="419.8" y="1250" width="15.4" height="16" rx="2" fill="#2F3D58" opacity="0.5"/><rect x="454.8" y="1250" width="15.4" height="16" rx="2" fill="#2F3D58" opacity="0.5"/><rect x="314.8" y="1288" width="15.4" height="16" rx="2" fill="#2F3D58" opacity="0.5"/><rect x="279.8" y="1326" width="15.4" height="16" rx="2" fill="#2F3D58" opacity="0.5"/><rect x="314.8" y="1326" width="15.4" height="16" rx="2" fill="#2F3D58" opacity="0.5"/><rect x="349.8" y="1326" width="15.4" height="16" rx="2" fill="#FDD54D" opacity="0.55"/><rect x="419.8" y="1326" width="15.4" height="16" rx="2" fill="#FDD54D" opacity="0.55"/><rect x="454.8" y="1326" width="15.4" height="16" rx="2" fill="#2F3D58" opacity="0.5"/><rect x="520" y="950" width="200" height="400" fill="#1A2538"/><rect x="520" y="936" width="200" height="14" fill="#1A2538" opacity=".9"/><rect x="531.2" y="978" width="17.6" height="16" rx="2" fill="#2F3D58" opacity="0.5"/><rect x="651.2" y="978" width="17.6" height="16" rx="2" fill="#FDD54D" opacity="0.55"/><rect x="691.2" y="978" width="17.6" height="16" rx="2" fill="#2F3D58" opacity="0.5"/><rect x="571.2" y="1016" width="17.6" height="16" rx="2" fill="#2F3D58" opacity="0.5"/><rect x="611.2" y="1016" width="17.6" height="16" rx="2" fill="#2F3D58" opacity="0.5"/><rect x="611.2" y="1054" width="17.6" height="16" rx="2" fill="#2F3D58" opacity="0.5"/><rect x="651.2" y="1054" width="17.6" height="16" rx="2" fill="#2F3D58" opacity="0.5"/><rect x="691.2" y="1054" width="17.6" height="16" rx="2" fill="#2F3D58" opacity="0.5"/><rect x="531.2" y="1092" width="17.6" height="16" rx="2" fill="#2F3D58" opacity="0.5"/><rect x="571.2" y="1092" width="17.6" height="16" rx="2" fill="#FDD54D" opacity="0.55"/><rect x="691.2" y="1092" width="17.6" height="16" rx="2" fill="#2F3D58" opacity="0.5"/><rect x="571.2" y="1130" width="17.6" height="16" rx="2" fill="#2F3D58" opacity="0.5"/><rect x="531.2" y="1168" width="17.6" height="16" rx="2" fill="#2F3D58" opacity="0.5"/><rect x="691.2" y="1168" width="17.6" height="16" rx="2" fill="#2F3D58" opacity="0.5"/><rect x="531.2" y="1206" width="17.6" height="16" rx="2" fill="#FDD54D" opacity="0.55"/><rect x="691.2" y="1206" width="17.6" height="16" rx="2" fill="#2F3D58" opacity="0.5"/><rect x="531.2" y="1244" width="17.6" height="16" rx="2" fill="#2F3D58" opacity="0.5"/><rect x="651.2" y="1244" width="17.6" height="16" rx="2" fill="#2F3D58" opacity="0.5"/><rect x="531.2" y="1282" width="17.6" height="16" rx="2" fill="#2F3D58" opacity="0.5"/><rect x="571.2" y="1282" width="17.6" height="16" rx="2" fill="#FDD54D" opacity="0.55"/><rect x="611.2" y="1282" width="17.6" height="16" rx="2" fill="#2F3D58" opacity="0.5"/><rect x="691.2" y="1282" width="17.6" height="16" rx="2" fill="#FDD54D" opacity="0.55"/><rect x="531.2" y="1320" width="17.6" height="16" rx="2" fill="#2F3D58" opacity="0.5"/><rect x="571.2" y="1320" width="17.6" height="16" rx="2" fill="#2F3D58" opacity="0.5"/><rect x="611.2" y="1320" width="17.6" height="16" rx="2" fill="#2F3D58" opacity="0.5"/><rect x="651.2" y="1320" width="17.6" height="16" rx="2" fill="#FDD54D" opacity="0.55"/><rect x="691.2" y="1320" width="17.6" height="16" rx="2" fill="#2F3D58" opacity="0.5"/><rect x="760" y="900" width="220" height="450" fill="#1A2538"/><rect x="760" y="886" width="220" height="14" fill="#1A2538" opacity=".9"/><rect x="843.6" y="928" width="16.1" height="16" rx="2" fill="#FDD54D" opacity="0.55"/><rect x="916.9" y="928" width="16.1" height="16" rx="2" fill="#2F3D58" opacity="0.5"/><rect x="953.6" y="928" width="16.1" height="16" rx="2" fill="#2F3D58" opacity="0.5"/><rect x="770.3" y="966" width="16.1" height="16" rx="2" fill="#2F3D58" opacity="0.5"/><rect x="806.9" y="966" width="16.1" height="16" rx="2" fill="#2F3D58" opacity="0.5"/><rect x="916.9" y="966" width="16.1" height="16" rx="2" fill="#FDD54D" opacity="0.55"/><rect x="770.3" y="1004" width="16.1" height="16" rx="2" fill="#FDD54D" opacity="0.55"/><rect x="843.6" y="1004" width="16.1" height="16" rx="2" fill="#2F3D58" opacity="0.5"/><rect x="880.3" y="1004" width="16.1" height="16" rx="2" fill="#2F3D58" opacity="0.5"/><rect x="916.9" y="1004" width="16.1" height="16" rx="2" fill="#FDD54D" opacity="0.55"/><rect x="953.6" y="1004" width="16.1" height="16" rx="2" fill="#2F3D58" opacity="0.5"/><rect x="843.6" y="1042" width="16.1" height="16" rx="2" fill="#2F3D58" opacity="0.5"/><rect x="880.3" y="1042" width="16.1" height="16" rx="2" fill="#2F3D58" opacity="0.5"/><rect x="916.9" y="1042" width="16.1" height="16" rx="2" fill="#2F3D58" opacity="0.5"/><rect x="953.6" y="1042" width="16.1" height="16" rx="2" fill="#2F3D58" opacity="0.5"/><rect x="770.3" y="1080" width="16.1" height="16" rx="2" fill="#2F3D58" opacity="0.5"/><rect x="880.3" y="1080" width="16.1" height="16" rx="2" fill="#FDD54D" opacity="0.55"/><rect x="770.3" y="1118" width="16.1" height="16" rx="2" fill="#FDD54D" opacity="0.55"/><rect x="843.6" y="1118" width="16.1" height="16" rx="2" fill="#2F3D58" opacity="0.5"/><rect x="953.6" y="1118" width="16.1" height="16" rx="2" fill="#2F3D58" opacity="0.5"/><rect x="770.3" y="1156" width="16.1" height="16" rx="2" fill="#2F3D58" opacity="0.5"/><rect x="880.3" y="1156" width="16.1" height="16" rx="2" fill="#FDD54D" opacity="0.55"/><rect x="916.9" y="1156" width="16.1" height="16" rx="2" fill="#2F3D58" opacity="0.5"/><rect x="953.6" y="1156" width="16.1" height="16" rx="2" fill="#FDD54D" opacity="0.55"/><rect x="770.3" y="1194" width="16.1" height="16" rx="2" fill="#2F3D58" opacity="0.5"/><rect x="843.6" y="1194" width="16.1" height="16" rx="2" fill="#2F3D58" opacity="0.5"/><rect x="916.9" y="1194" width="16.1" height="16" rx="2" fill="#2F3D58" opacity="0.5"/><rect x="953.6" y="1194" width="16.1" height="16" rx="2" fill="#2F3D58" opacity="0.5"/><rect x="843.6" y="1232" width="16.1" height="16" rx="2" fill="#2F3D58" opacity="0.5"/><rect x="916.9" y="1232" width="16.1" height="16" rx="2" fill="#2F3D58" opacity="0.5"/><rect x="953.6" y="1232" width="16.1" height="16" rx="2" fill="#2F3D58" opacity="0.5"/><rect x="770.3" y="1270" width="16.1" height="16" rx="2" fill="#2F3D58" opacity="0.5"/><rect x="806.9" y="1270" width="16.1" height="16" rx="2" fill="#2F3D58" opacity="0.5"/><rect x="916.9" y="1270" width="16.1" height="16" rx="2" fill="#FDD54D" opacity="0.55"/><rect x="953.6" y="1270" width="16.1" height="16" rx="2" fill="#FDD54D" opacity="0.55"/><rect x="770.3" y="1308" width="16.1" height="16" rx="2" fill="#2F3D58" opacity="0.5"/><rect x="806.9" y="1308" width="16.1" height="16" rx="2" fill="#2F3D58" opacity="0.5"/><rect x="843.6" y="1308" width="16.1" height="16" rx="2" fill="#FDD54D" opacity="0.55"/><rect x="916.9" y="1308" width="16.1" height="16" rx="2" fill="#2F3D58" opacity="0.5"/></svg><div class="fade"></div>
+<section class="c dark" id="c1"><div class="photo"></div><div class="fade"></div>
   <span class="pill">LH 행복주택 · 11/10 접수 시작</span>
   <div class="big" style="margin-top:56px">과천에<br>행복주택<br><span class="y">1,424호</span></div>
   <p class="sub">신혼부부 36㎡ <b>보증금 1억 5,080만 · 월 60만 원대</b><br>청년 16㎡ <b>보증금 6,192만 · 월 24만 원대</b></p>
@@ -57,7 +57,7 @@ tr.hl td{background:#172033;color:#fff}tr.hl td small{color:#AEB6C8}tr.hl td .r{
     <span class="pill y">📌 저장하고 11/10에 신청하세요</span>
     <span class="pill">💬 댓글 '과천' → 내 계층 자격 체크표</span>
   </div>
-  <div class="foot"><span>착한언니복덕방 @goodsister4080</span><span>1 / 6</span></div>
+  <span class="ref">사진은 참고용 이미지예요</span><div class="foot"><span>착한언니복덕방 @goodsister4080</span><span>1 / 6</span></div>
 </section>
 
 <!-- 2 단지 한눈에 -->
